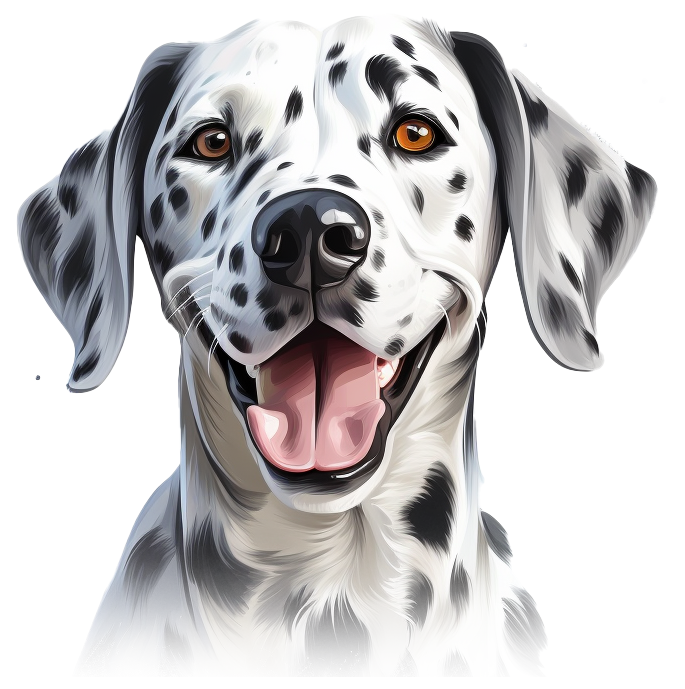
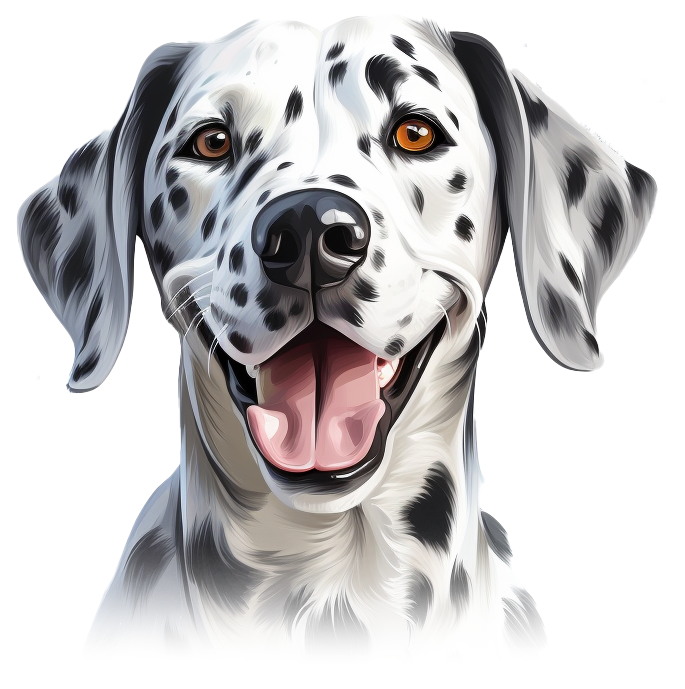
newww

diff --git a/src/sections/section2/Index.tsx b/src/sections/section2/Index.tsx
@@ -22,9 +22,11 @@ export default function Section2() {
             </div>
 
             {/* FORM */}
-            <div className="mb-20 px-5 flex gap-28">
+            <div className="mb-20 px-5 flex justify-center items-center gap-28 ">
                 <Formulario />
-                <img src={dalmata} alt="ilustração de um dalmata" className="max-w-md hidden xl:block"/>
+                <div className="hidden xl:block w-1/3">
+                    <img src={dalmata} alt="ilustração de um dalmata" className=" hidden xl:block"/>
+                </div>
             </div>
 
             {/* GONDOLA */}

diff --git a/vite.config.ts b/vite.config.ts
@@ -4,6 +4,6 @@ import react from '@vitejs/plugin-react'
 // https://vitejs.dev/config/
 export default defineConfig({
   plugins: [react()],
-  base: '/revendedor/'
+  base: '/'
 
 })
